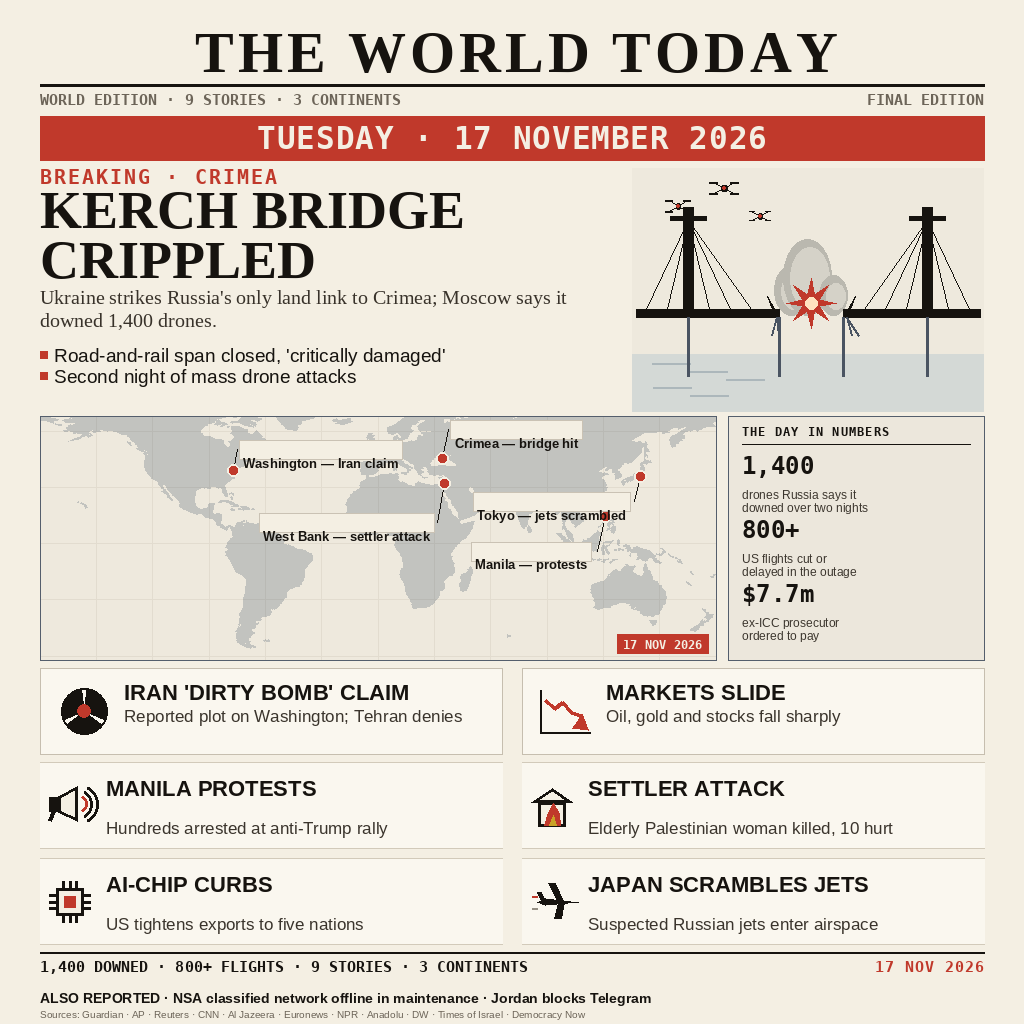
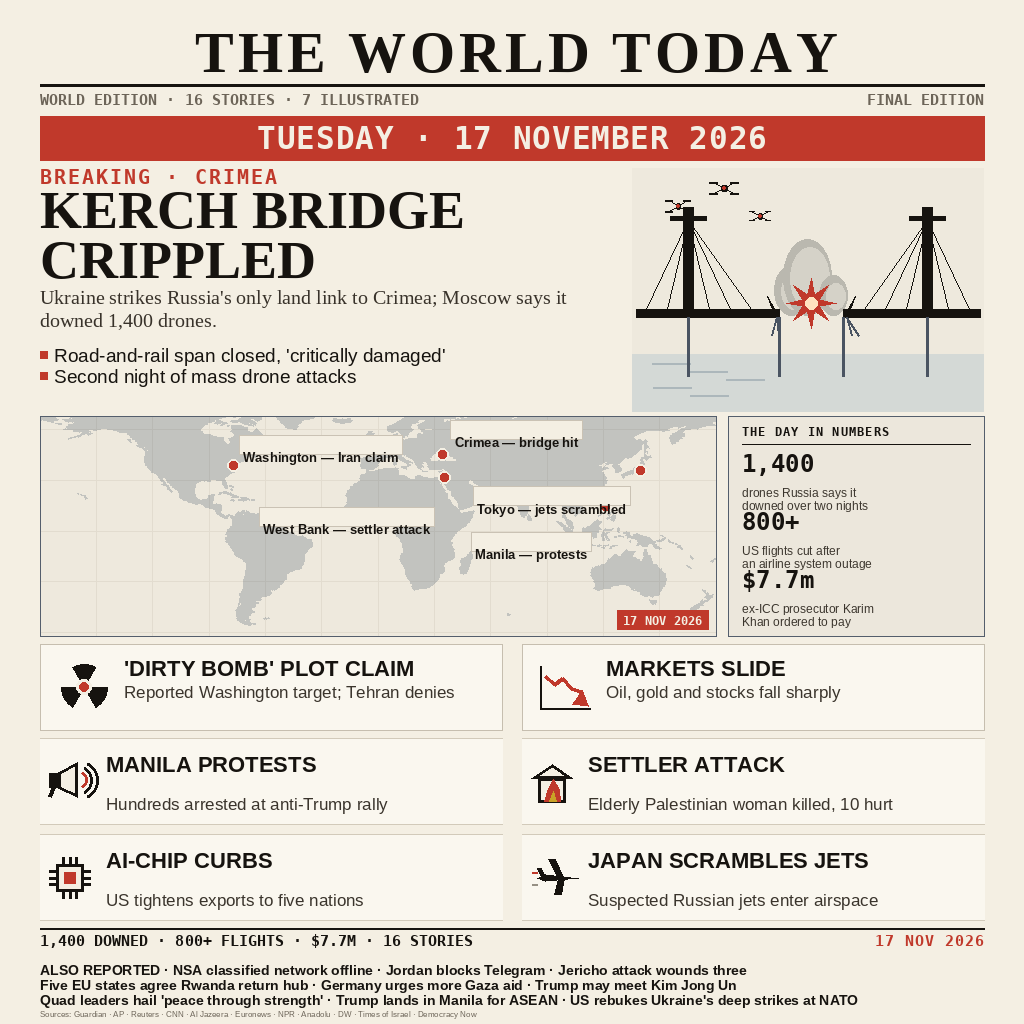
Tighten the page: 16 stories, corrected radiation mark, named prosecutor
Widen the day's coverage with a nine-item also-reported band while keeping
the illustrated stories at their size, fix the trefoil to a proper radiation
mark, and make the plot-claim and flight figures unambiguous.

diff --git a/render.py b/render.py
@@ -172,7 +172,6 @@ def draw_map(img, d, box, polys, markers):
         if m.get("align") == "right":
             lx -= fw
         ly = max(y0 + 4, min(y1 - 22, my + m.get("ty", 0)))
-        d.line([mx, my, mx + m.get("tx", 0) * 0.45, ly + 9], fill=INK, width=1)
         d.rectangle([lx - 4, ly, lx + fw + 4, ly + 19], fill=PAPER, outline=(202, 194, 180))
         d.text((lx, ly + 15), m["label"], font=f, fill=INK)
         d.ellipse([mx - 6, my - 6, mx + 6, my + 6], fill=RED, outline=PAPER, width=2)
@@ -253,11 +252,12 @@ def icon_bridge(d, x, y, w, h):
 
 
 def icon_trefoil(d, cx, cy, r):
+    bbox = [cx - r, cy - r, cx + r, cy + r]
     for i in range(3):
-        a0 = -90 + i * 120
-        d.pieslice([cx - r, cy - r, cx + r, cy + r], a0 + 7, a0 + 113, fill=INK)
-    d.ellipse([cx - r * 0.30, cy - r * 0.30, cx + r * 0.30, cy + r * 0.30], fill=RED)
-    d.ellipse([cx - r, cy - r, cx + r, cy + r], outline=INK, width=2)
+        mid = -90 + i * 120
+        d.pieslice(bbox, mid - 30, mid + 30, fill=INK)
+    d.ellipse([cx - r * 0.34, cy - r * 0.34, cx + r * 0.34, cy + r * 0.34], fill=PAPER)
+    d.ellipse([cx - r * 0.20, cy - r * 0.20, cx + r * 0.20, cy + r * 0.20], fill=RED)
 
 
 def icon_chart(d, x, y, w, h):
@@ -333,7 +333,7 @@ def build(polys, out):
     rule(d, M, 84, W - M, INK, 3)
 
     f_edit = mono(15)
-    d.text((M, 91), "WORLD EDITION · 9 STORIES · 3 CONTINENTS", font=f_edit, fill=MUTED)
+    d.text((M, 91), "WORLD EDITION · 16 STORIES · 7 ILLUSTRATED", font=f_edit, fill=MUTED)
     right = "FINAL EDITION"
     d.text((W - M - tw(d, right, f_edit), 91), right, font=f_edit, fill=MUTED)
 
@@ -362,7 +362,7 @@ def build(polys, out):
     img.alpha_composite(ill, (632, 168))
 
     # ---------------- map + numbers
-    map_box = (M, 416, 716, 660)
+    map_box = (M, 416, 716, 636)
     markers = [
         {"lon": -77.0, "lat": 38.9, "label": "Washington — Iran claim", "tx": 10, "ty": -30},
         {"lon": 34.5, "lat": 45.2, "label": "Crimea — bridge hit", "tx": 12, "ty": -38},
@@ -373,26 +373,26 @@ def build(polys, out):
     draw_map(img, d, map_box, polys, markers)
 
     px0 = 728
-    d.rectangle([px0, 416, W - M, 660], fill=(236, 231, 220))
-    d.rectangle([px0, 416, W - M, 660], outline=(84, 94, 108), width=1)
+    d.rectangle([px0, 416, W - M, 636], fill=(236, 231, 220))
+    d.rectangle([px0, 416, W - M, 636], outline=(84, 94, 108), width=1)
     tracked(d, (px0 + 14, 436), "THE DAY IN NUMBERS", mono(12), INK, tracking=1)
     rule(d, px0 + 14, 444, W - M - 14, INK, 1)
 
     figures = [("1,400", ("drones Russia says it", "downed over two nights")),
-               ("800+", ("US flights cut or", "delayed in the outage")),
-               ("$7.7m", ("ex-ICC prosecutor", "ordered to pay"))]
-    fy = 452
+               ("800+", ("US flights cut after", "an airline system outage")),
+               ("$7.7m", ("ex-ICC prosecutor Karim", "Khan ordered to pay"))]
+    fy = 450
     for num, lab in figures:
         d.text((px0 + 14, fy + 22), num, font=mono(24), fill=INK, anchor="ls")
         yy = fy + 36
         for ln in lab:
             d.text((px0 + 14, yy), ln, font=sans_r(12), fill=(58, 52, 44))
             yy += 13
-        fy += 64
+        fy += 58
 
     # ---------------- two cards
-    cy0, cy1 = 668, 754
-    cards = [("IRAN 'DIRTY BOMB' CLAIM", "Reported plot on Washington; Tehran denies", "trefoil"),
+    cy0, cy1 = 644, 730
+    cards = [("'DIRTY BOMB' PLOT CLAIM", "Reported Washington target; Tehran denies", "trefoil"),
              ("MARKETS SLIDE", "Oil, gold and stocks fall sharply", "chart")]
     for i, (head, sub, kind) in enumerate(cards):
         x0 = M + i * 482
@@ -419,7 +419,7 @@ def build(polys, out):
     for i, (head, sub, ic) in enumerate(items):
         row, col = divmod(i, 2)
         x0 = M + col * 482
-        y0 = 762 + row * 96
+        y0 = 738 + row * 96
         x1 = x0 + 462
         d.rectangle([x0, y0, x1, y0 + 86], fill=(250, 247, 239))
         d.line([x0, y0, x1, y0], fill=(210, 202, 186), width=1)
@@ -429,14 +429,19 @@ def build(polys, out):
         d.text((x0 + 66, y0 + 56), sub, font=f_ts, fill=(58, 52, 44))
 
     # ---------------- footer
-    rule(d, M, 952, W - M, INK, 2)
+    rule(d, M, 928, W - M, INK, 2)
     f_num = mono(15)
-    tracked(d, (M, 972), "1,400 DOWNED · 800+ FLIGHTS · 9 STORIES · 3 CONTINENTS", f_num, INK)
-    tracked(d, (W - M, 972), "17 NOV 2026", f_num, RED, tracking=1, anchor="right")
-    d.text((M, 990), "ALSO REPORTED · NSA classified network offline in maintenance · Jordan blocks Telegram",
-           font=sans(14), fill=INK)
-    d.text((M, 1008), "Sources: Guardian · AP · Reuters · CNN · Al Jazeera · Euronews · NPR · Anadolu · DW · Times of Israel · Democracy Now",
-           font=sans_r(10), fill=MUTED)
+    tracked(d, (M, 946), "1,400 DOWNED · 800+ FLIGHTS · $7.7M · 16 STORIES", f_num, INK)
+    tracked(d, (W - M, 946), "17 NOV 2026", f_num, RED, tracking=1, anchor="right")
+    f_also = sans(14)
+    d.text((M, 962), "ALSO REPORTED · NSA classified network offline · Jordan blocks Telegram · Jericho attack wounds three",
+           font=f_also, fill=INK)
+    d.text((M, 977), "Five EU states agree Rwanda return hub · Germany urges more Gaza aid · Trump may meet Kim Jong Un",
+           font=f_also, fill=INK)
+    d.text((M, 992), "Quad leaders hail 'peace through strength' · Trump lands in Manila for ASEAN · US rebukes Ukraine's deep strikes at NATO",
+           font=f_also, fill=INK)
+    d.text((M, 1009), "Sources: Guardian · AP · Reuters · CNN · Al Jazeera · Euronews · NPR · Anadolu · DW · Times of Israel · Democracy Now",
+           font=sans_r(8), fill=MUTED)
 
     img.convert("RGB").save(out, "PNG", optimize=True)
     return img

diff --git a/README.md b/README.md
@@ -4,7 +4,7 @@
 [![rank](https://make.fun/badge/news-image-20261117/delisto75max/world-today-20261117/rank.svg)](https://make.fun/bounty/news-image-20261117/leaderboard?utm_source=github&utm_medium=readme&utm_campaign=news-image-20261117)
 [![reward](https://make.fun/badge/news-image-20261117/delisto75max/world-today-20261117/reward.svg)](https://make.fun/bounty/news-image-20261117?utm_source=github&utm_medium=readme&utm_campaign=news-image-20261117)
 
-A one-page newspaper front page that sums up the world news of **Tuesday 17 November 2026**: the Kerch Bridge strike as the lead, Iran's alleged plot and the market slide as second and third stories, and four more stories from Europe, the Middle East, East Asia, Southeast Asia and the United States, with a world map, a figures panel and the date repeated on the page.
+A one-page newspaper front page that sums up the world news of **Tuesday 17 November 2026**: the Kerch Bridge strike as the lead, the alleged Washington "dirty bomb" plot and the market slide as second and third stories, four illustrated stories from Manila, the West Bank, Washington's AI-chip rules and Japan's airspace, a world map with five labelled markers, a figures panel, and a nine-item "also reported" band — sixteen stories in all, with the date repeated in the masthead, the date band, the map stamp and the footer.
 
 Everything in the image is drawn by `render.py` with Pillow: flat vector shapes only, no photographs, no outlet logos, no third-party artwork. The world map uses Natural Earth 110m land (public domain), committed here as GeoJSON.
 
@@ -27,16 +27,16 @@ python3 render.py entry.png
 
 - `0–160` masthead, world edition line, and the date band `TUESDAY · 17 NOVEMBER 2026`
 - `168–412` lead: Kerch Bridge crippled, with the bridge illustration
-- `416–660` world map with five labelled markers, and the day in numbers
-- `668–754` Iran plot claim and the market slide
-- `762–944` Manila protests, settler attack, AI-chip curbs, Japan jets scrambled
-- `952–1024` figures, also-reported line and sources
+- `416–636` world map with five labelled markers, and the day in numbers
+- `644–730` the "dirty bomb" plot claim and the market slide
+- `738–920` Manila protests, settler attack, AI-chip curbs, Japan jets scrambled
+- `928–1024` figures, nine also-reported stories and sources
 
-Body type stays at 17 px and above, item headlines at 22 px, the lead at 54 px; the page is built to stay legible at 300 px across.
+Body type stays at 14 px and above in the briefs band, item headlines at 22 px, the lead at 54 px; the page is built to stay legible at 300 px across.
 
 ## Sources
 
-Guardian, AP, Reuters, CNN, Al Jazeera, Euronews, NPR, Anadolu, DW, Times of Israel, Democracy Now — reporting of 17 November 2026. Contested claims are labelled as claims (`Reported plot on Washington; Tehran denies`; `Moscow says it downed 1,400 drones`).
+Guardian, AP, Reuters, CNN, Al Jazeera, Euronews, NPR, Anadolu, DW, Times of Israel, Democracy Now — reporting of 17 November 2026. Contested claims are labelled as claims (`Reported Washington target; Tehran denies`; `Moscow says it downed 1,400 drones`).
 
 ## License
 
